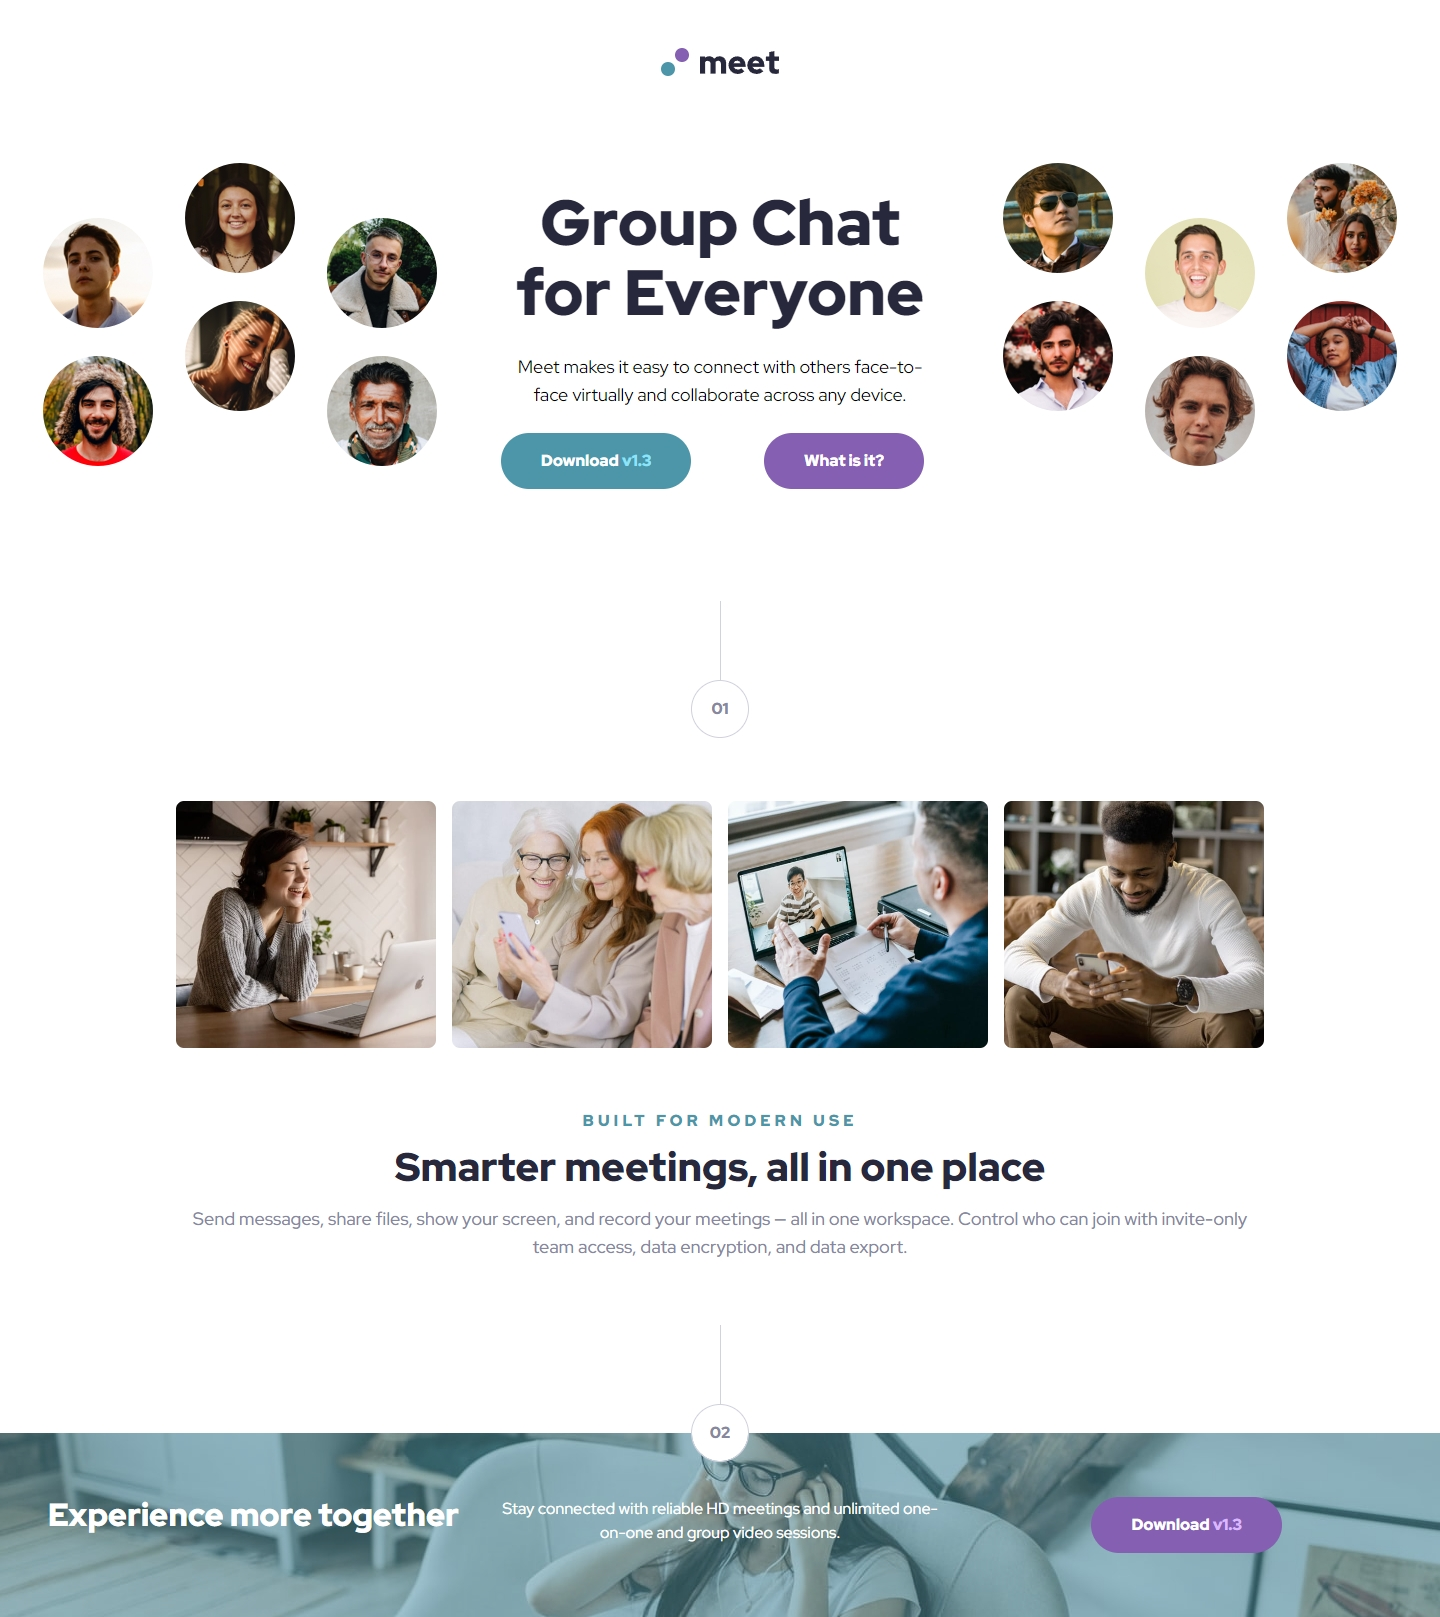
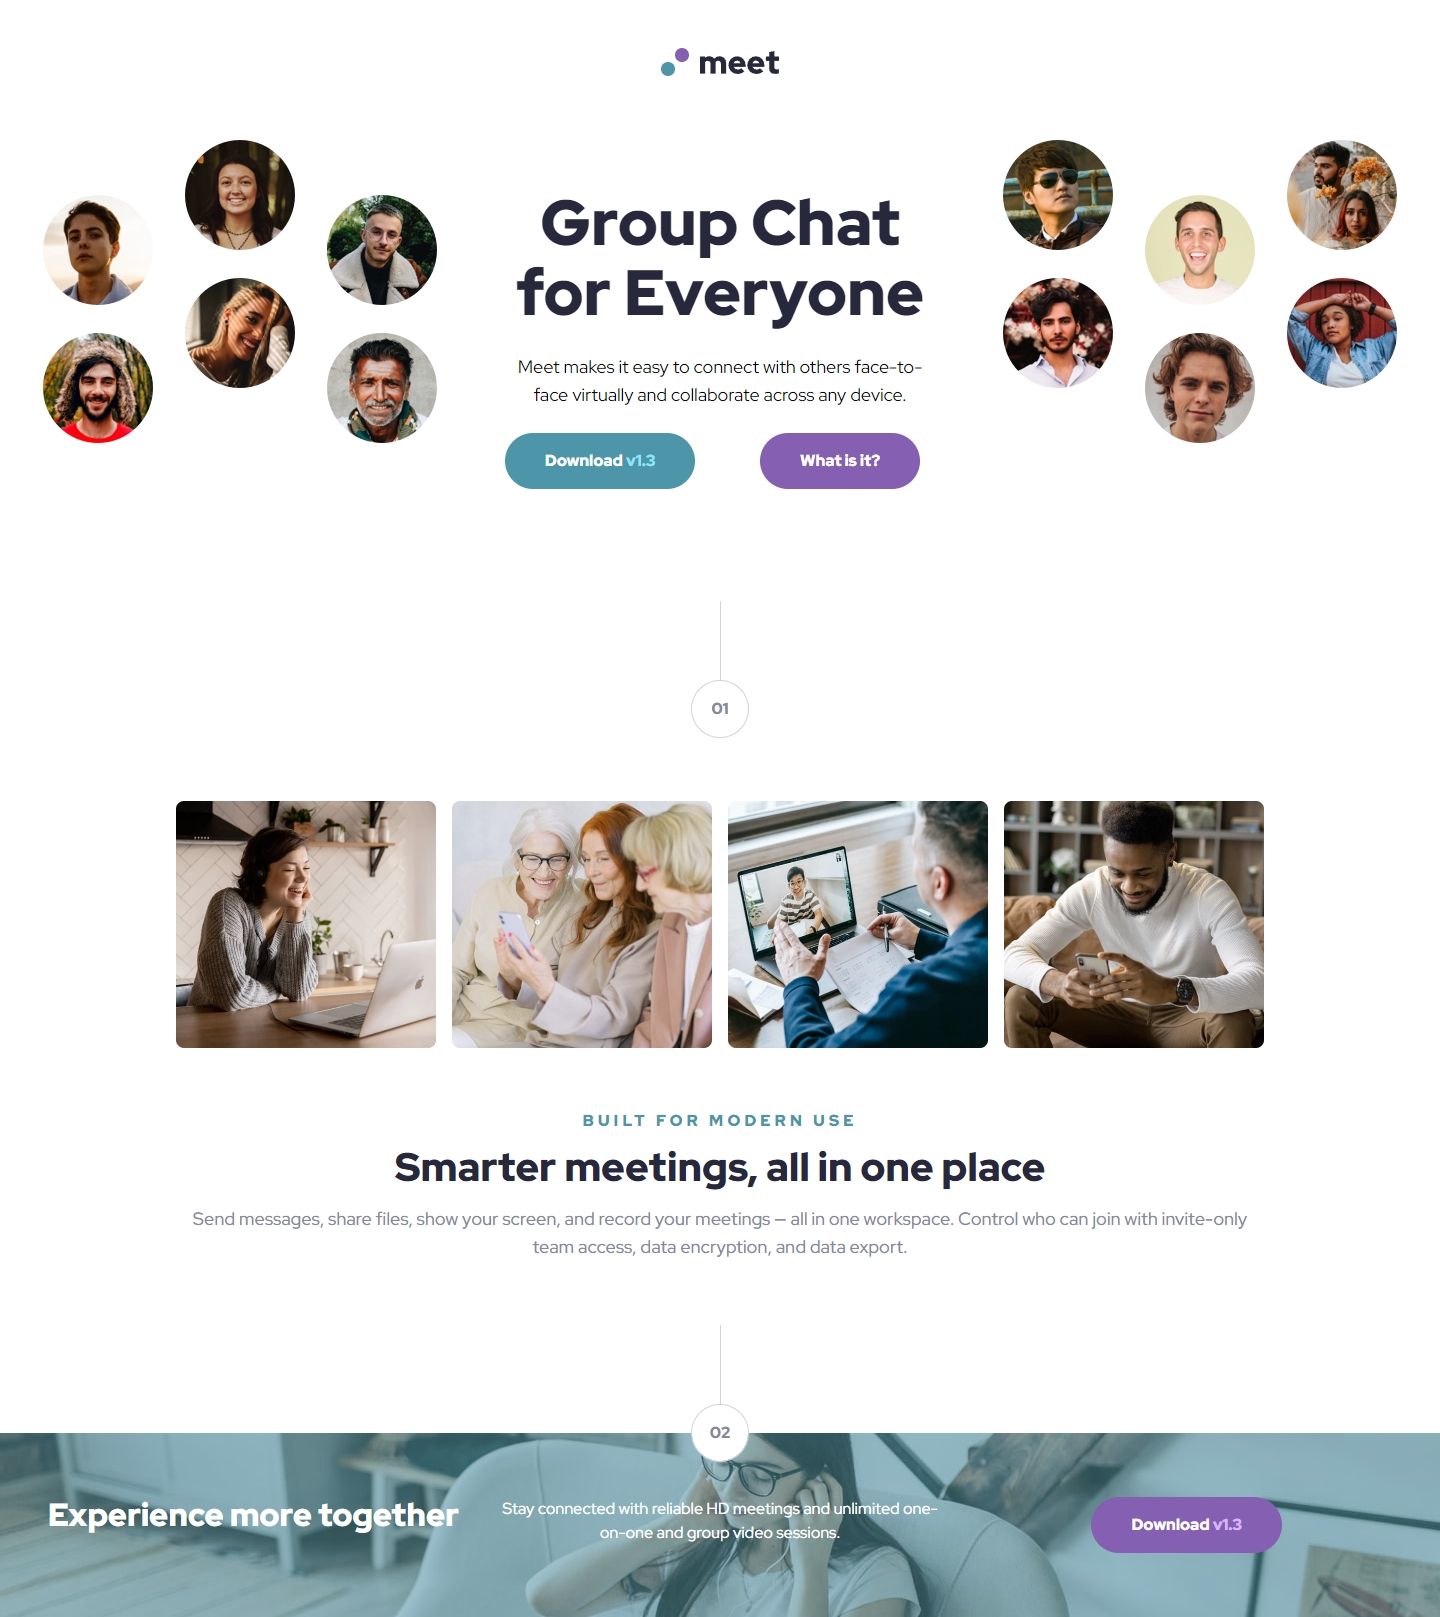
fix/landing: Adjusted mobile and tablet hero image for better load times

diff --git a/src/components/Heading.jsx b/src/components/Heading.jsx
@@ -8,18 +8,18 @@ function Heading() {
         alt="Meet company logo"
         className="mx-auto mt-12 mb-8"
       />
-      <div className="grid grid-cols-2 lg:grid-cols-3 py-8 justify-items-center items-center">
-        <img
-          src="assets/desktop/image-hero-left.png"
-          alt="Photo thumbnails of different people"
-          className=""
-        />
-        <img
-          src="assets/desktop/image-hero-right.png"
-          alt="Photo thumbnails of different people"
-          className="lg:order-3"
-        />
-        <div className="col-span-2 mt-12 lg:order-2 lg:col-span-1 max-w-md lg:max-w-lg text-center">
+      <div className="grid lg:grid-cols-3 py-8 justify-items-center">
+        <picture>
+          <source
+            media="(min-width: 64rem)"
+            srcSet="assets/desktop/image-hero-left.png"
+          />
+          <img
+            src="assets/tablet/image-hero.png"
+            alt="Photo thumbnails of different people"
+          />
+        </picture>
+        <div className="mt-12 max-w-md lg:max-w-lg text-center mx-auto">
           <div className="px-8">
             <h1 className="font-black text-[2.5rem] sm:text-5xl lg:text-[4rem] leading-[1.1] text-slate900">
               Group Chat for Everyone
@@ -29,7 +29,7 @@ function Heading() {
               and collaborate across any device.
             </p>
           </div>
-          <div className="grid grid-rows-2 gap-4 sm:grid-rows-none sm:grid-cols-2 justify-self-center">
+          <div className="grid grid-rows-2 gap-2 sm:grid-rows-none sm:grid-cols-2 sm:gap-0 justify-self-center">
             <Button bgColor={"bg-cyan600 hover:bg-cyan600/75"}>
               Download <span className="text-cyan300">v1.3</span>
             </Button>
@@ -38,6 +38,17 @@ function Heading() {
             </Button>
           </div>
         </div>
+        <picture>
+          <source
+            media="(min-width: 64rem)"
+            srcSet="assets/desktop/image-hero-right.png"
+          />
+          <img
+            src="assets/tablet/image-hero.png"
+            alt="Photo thumbnails of different people"
+            className="hidden lg:block"
+          />
+        </picture>
       </div>
     </header>
   );

diff --git a/README.md b/README.md
@@ -25,11 +25,11 @@ Users should be able to:
 - View the optimal layout for the site depending on their device's screen size
 - Images should adapt to the device's screen size improving load times
 
-### Screenshots
+### Screenshots (Click to view larger)
 
-<img src="./screenshots/mobile.jpeg" alt="Alt Text" style="height:640px;">
-<img src="./screenshots/tablet.jpeg" alt="Alt Text" style="height:640px;">
-<img src="./screenshots/desktop.jpeg" alt="Alt Text" style="height:640px;">
+<img src="./screenshots/mobile.jpeg" alt="Alt Text" style="height:320px;">
+<img src="./screenshots/tablet.jpeg" alt="Alt Text" style="height:320px;">
+<img src="./screenshots/desktop.jpeg" alt="Alt Text" style="height:320px;">
 
 ---
 
